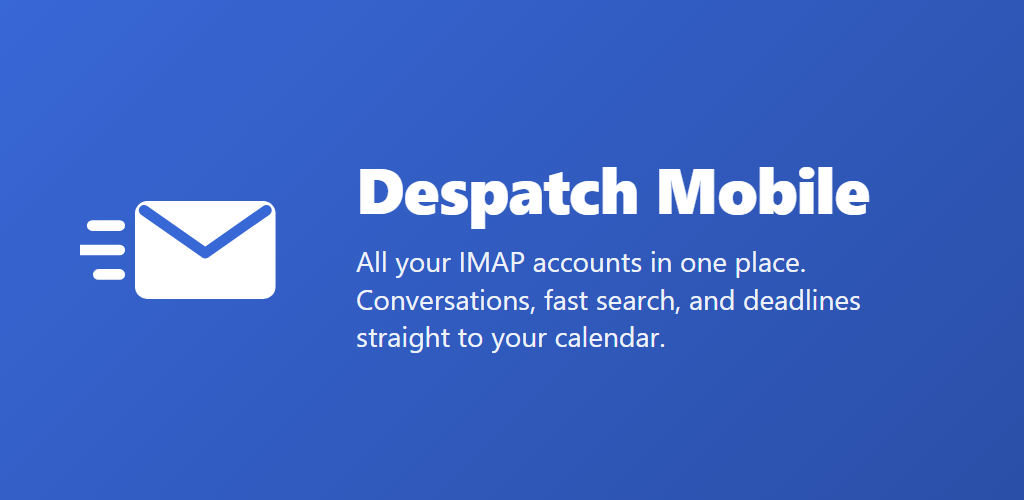
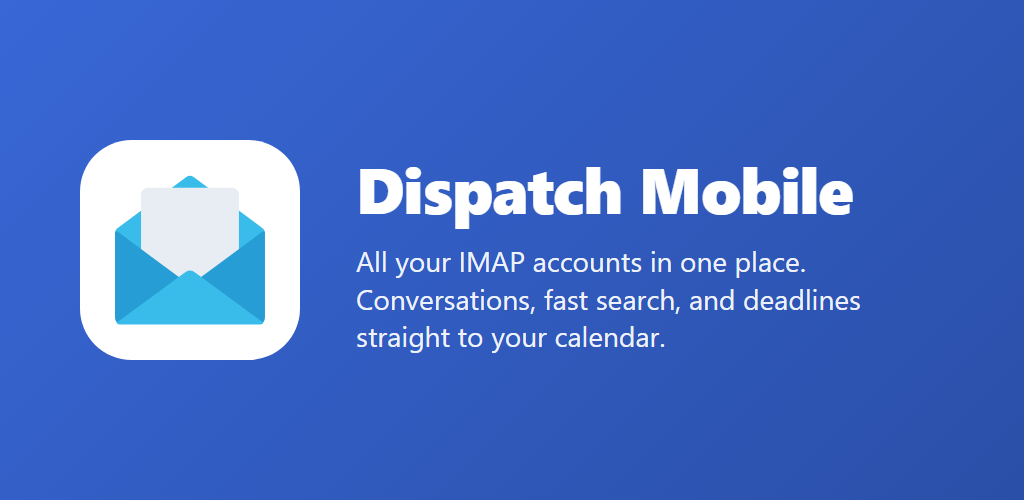
Rename the app to Dispatch, matching the desktop version
The launcher, window title and drawer say "Dispatch"; prose, the store
listing, privacy policy and app-password instructions say "Dispatch
Mobile". The feature graphic now uses the new envelope icon. Internal
identifiers (package ID, plugin, database names) are unchanged so existing
installs keep their accounts and mail.

Changed region(s): [[0.0625, 0.27, 0.3125, 0.72], [0.375, 0.33, 0.875, 0.48]]

diff --git a/src/js/mail/providers.js b/src/js/mail/providers.js
@@ -14,7 +14,7 @@ export const PROVIDERS = [
     smtp: { host: 'smtp.gmail.com', port: 465, security: 'tls' },
     appPassword: {
       url: 'https://myaccount.google.com/apppasswords',
-      steps: 'Turn on 2-Step Verification for your Google account, then create an app password named "Despatch Mobile".',
+      steps: 'Turn on 2-Step Verification for your Google account, then create an app password named "Dispatch Mobile".',
     },
     // Gmail saves sent mail itself; appending a copy would duplicate it.
     savesSentMail: true,
@@ -28,7 +28,7 @@ export const PROVIDERS = [
     smtp: { host: 'smtp.mail.me.com', port: 587, security: 'starttls' },
     appPassword: {
       url: 'https://account.apple.com/account/manage',
-      steps: 'Under Sign-In and Security, choose App-Specific Passwords and create one for "Despatch Mobile".',
+      steps: 'Under Sign-In and Security, choose App-Specific Passwords and create one for "Dispatch Mobile".',
     },
   },
   {
@@ -40,7 +40,7 @@ export const PROVIDERS = [
     smtp: { host: 'smtp.mail.yahoo.com', port: 465, security: 'tls' },
     appPassword: {
       url: 'https://login.yahoo.com/account/security',
-      steps: 'Open Account Security, choose Generate app password, and create one for "Despatch Mobile".',
+      steps: 'Open Account Security, choose Generate app password, and create one for "Dispatch Mobile".',
     },
   },
   {
@@ -52,7 +52,7 @@ export const PROVIDERS = [
     smtp: { host: 'smtp.aol.com', port: 465, security: 'tls' },
     appPassword: {
       url: 'https://login.aol.com/account/security',
-      steps: 'Open Account Security, choose Generate app password, and create one for "Despatch Mobile".',
+      steps: 'Open Account Security, choose Generate app password, and create one for "Dispatch Mobile".',
     },
   },
   {
@@ -77,7 +77,7 @@ export const PROVIDERS = [
     appPassword: {
       optional: true,
       url: 'https://accounts.zoho.com/home#security/app_password',
-      steps: 'If you use two-factor authentication, create an app password for "Despatch Mobile".',
+      steps: 'If you use two-factor authentication, create an app password for "Dispatch Mobile".',
     },
   },
   {

diff --git a/store/source/feature-graphic.html b/store/source/feature-graphic.html
@@ -1,6 +1,6 @@
 <!doctype html>
 <meta charset="utf-8" />
-<title>Despatch Mobile feature graphic</title>
+<title>Dispatch Mobile feature graphic</title>
 <style>
   html, body { margin: 0; width: 1024px; height: 500px; }
   body {
@@ -10,12 +10,17 @@
   h1 { margin: 0 0 12px; font-size: 64px; font-weight: 600; letter-spacing: -1px; }
   p { margin: 0; font-size: 28px; line-height: 1.35; opacity: 0.92; }
 </style>
-<svg width="220" height="220" viewBox="18 18 72 72" xmlns="http://www.w3.org/2000/svg">
-  <path fill="#fff" d="M40,38h38a4,4 0 0 1 4,4v24a4,4 0 0 1 -4,4h-38a4,4 0 0 1 -4,-4v-24a4,4 0 0 1 4,-4z" />
-  <path d="M39,41 L59,55 L79,41" fill="none" stroke="#3867d6" stroke-width="3.5" stroke-linecap="round" stroke-linejoin="round" />
-  <path d="M22,46h9 M18,54h13 M24,62h7" fill="none" stroke="#fff" stroke-width="3.5" stroke-linecap="round" />
+<!-- The launcher icon: the desktop app's envelope on a white tile (paths as in res/drawable/ic_despatch_foreground.xml). -->
+<svg width="220" height="220" viewBox="0 0 512 512" xmlns="http://www.w3.org/2000/svg">
+  <rect width="512" height="512" rx="120" fill="#fff" />
+  <g transform="translate(76 76) scale(0.703)">
+    <path fill="#39BCEA" d="M8,200 Q8,188 18,182 L244,14 Q256,6 268,14 L494,182 Q504,188 504,200 L504,480 L8,480 Z" />
+    <path fill="#E8EDF4" d="M116,50 L396,50 A22,22 0 0 1 418,72 L418,380 L94,380 L94,72 A22,22 0 0 1 116,50 Z" />
+    <path fill="#269DD4" d="M8,200 Q8,190 17,196 L256,373 L495,196 Q504,190 504,200 L504,480 Q504,500 484,500 L28,500 Q8,500 8,480 Z" />
+    <path fill="#39BCEA" d="M238,331 Q256,317 274,331 L497,495 Q503,500 490,503 L22,503 Q9,500 15,495 Z" />
+  </g>
 </svg>
 <div>
-  <h1>Despatch Mobile</h1>
+  <h1>Dispatch Mobile</h1>
   <p>All your IMAP accounts in one place.<br />Conversations, fast search, and deadlines<br />straight to your calendar.</p>
 </div>

diff --git a/android/app/src/main/java/com/despatch/mobile/notify/PushService.kt b/android/app/src/main/java/com/despatch/mobile/notify/PushService.kt
@@ -83,7 +83,7 @@ class PushService : Service() {
     private fun ongoingNotification() = NotificationCompat.Builder(this, ensureServiceChannel())
         .setSmallIcon(R.drawable.ic_stat_mail)
         .setContentTitle("Instant notifications are on")
-        .setContentText("Despatch Mobile is keeping a connection open for new mail.")
+        .setContentText("Dispatch Mobile is keeping a connection open for new mail.")
         .setOngoing(true)
         .setPriority(NotificationCompat.PRIORITY_MIN)
         .setContentIntent(
@@ -98,7 +98,7 @@ class PushService : Service() {
 
     private fun ensureServiceChannel(): String {
         val channel = NotificationChannel(SERVICE_CHANNEL, "Instant notifications", NotificationManager.IMPORTANCE_MIN).apply {
-            description = "Shown while Despatch Mobile keeps a connection open for instant notifications."
+            description = "Shown while Dispatch Mobile keeps a connection open for instant notifications."
         }
         getSystemService(NotificationManager::class.java).createNotificationChannel(channel)
         return SERVICE_CHANNEL

diff --git a/src/js/views/account-setup.js b/src/js/views/account-setup.js
@@ -31,7 +31,7 @@ function providerHint(provider) {
   if (provider.unsupportedUntil) {
     return html`<div class="banner banner--warning">
       ${icon('error')}
-      <p>${provider.name} accounts can’t be added yet. Support is planned for Despatch Mobile ${provider.unsupportedUntil}.</p>
+      <p>${provider.name} accounts can’t be added yet. Support is planned for Dispatch Mobile ${provider.unsupportedUntil}.</p>
     </div>`;
   }
   if (!provider.appPassword) return '';
@@ -120,7 +120,7 @@ export function createAccountSetupView({ element, onSubmit, onOpenUrl, onDone })
           <h1 class="app-bar__title">Add account</h1>
         </header>
         <form class="pane__body setup" novalidate>
-          <p class="setup__intro">Despatch Mobile works with any IMAP email account.</p>
+          <p class="setup__intro">Dispatch Mobile works with any IMAP email account.</p>
           <label class="field">
             <span>Email address</span>
             <input name="email" type="email" value="${state.email}" autocomplete="email" autocapitalize="off" required />

diff --git a/android/app/src/main/java/com/despatch/mobile/mail/AiaTrustManager.kt b/android/app/src/main/java/com/despatch/mobile/mail/AiaTrustManager.kt
@@ -139,7 +139,7 @@ class AiaTrustManager(
                 socket.connect(InetSocketAddress(uri.host, port), MailSessions.CONNECT_TIMEOUT_MS)
                 socket.soTimeout = MailSessions.CONNECT_TIMEOUT_MS
                 val path = uri.rawPath.ifEmpty { "/" } + (uri.rawQuery?.let { "?$it" } ?: "")
-                val request = "GET $path HTTP/1.0\r\nHost: ${uri.host}\r\nUser-Agent: Despatch Mobile\r\nConnection: close\r\n\r\n"
+                val request = "GET $path HTTP/1.0\r\nHost: ${uri.host}\r\nUser-Agent: Dispatch Mobile\r\nConnection: close\r\n\r\n"
                 socket.getOutputStream().write(request.toByteArray(Charsets.US_ASCII))
                 socket.getInputStream().use(::readLimited)
             } ?: return null

diff --git a/android/app/src/main/java/com/despatch/mobile/mail/MailErrors.kt b/android/app/src/main/java/com/despatch/mobile/mail/MailErrors.kt
@@ -66,7 +66,7 @@ object MailErrors {
             chain.any { it is AuthenticationFailedException } || looksLikeAuthFailure(text) -> when {
                 basicAuthDisabledHints.any(text::contains) -> MailException(
                     MailErrorCode.BASIC_AUTH_DISABLED,
-                    "This provider has password sign-in turned off. Support for it is planned for Despatch Mobile 2.0.",
+                    "This provider has password sign-in turned off. Support for it is planned for Dispatch Mobile 2.0.",
                     error,
                 )
                 appPasswordHints.any(text::contains) -> MailException(

diff --git a/src/js/calendar/ics.js b/src/js/calendar/ics.js
@@ -69,7 +69,7 @@ function alarmTrigger(minutes, allDay) {
 /**
  * @param {object} event  { uid, title, start, end, allDay, description, location, reminderMinutes }
  */
-export function buildIcs(event, { now = Date.now(), productId = '-//Despatch Mobile//EN' } = {}) {
+export function buildIcs(event, { now = Date.now(), productId = '-//Dispatch Mobile//EN' } = {}) {
   const lines = ['BEGIN:VCALENDAR', 'VERSION:2.0', `PRODID:${productId}`, 'CALSCALE:GREGORIAN', 'METHOD:PUBLISH', 'BEGIN:VEVENT'];
   lines.push(`UID:${event.uid}`);
   lines.push(`DTSTAMP:${utcStamp(now)}`);

diff --git a/android/app/src/main/java/com/despatch/mobile/mail/SmtpService.kt b/android/app/src/main/java/com/despatch/mobile/mail/SmtpService.kt
@@ -70,7 +70,7 @@ class SmtpService(private val passwords: PasswordSource) {
             message.sentDate = Date()
             outgoing.inReplyTo?.let { message.setHeader("In-Reply-To", it) }
             if (outgoing.references.isNotEmpty()) message.setHeader("References", outgoing.references.joinToString(" "))
-            message.setHeader("User-Agent", "Despatch Mobile")
+            message.setHeader("User-Agent", "Dispatch Mobile")
 
             val alternative = alternativeOf(outgoing)
             if (outgoing.attachments.isEmpty()) {

diff --git a/src/index.html b/src/index.html
@@ -8,7 +8,7 @@
       http-equiv="Content-Security-Policy"
       content="default-src 'self'; script-src 'self' 'wasm-unsafe-eval'; style-src 'self' 'unsafe-inline'; img-src 'self' data: blob: https: http:; connect-src 'self'; frame-src 'self' blob:; object-src 'none'; base-uri 'none'"
     />
-    <title>Despatch Mobile</title>
+    <title>Dispatch</title>
     <link rel="stylesheet" href="./css/tokens.css" />
     <link rel="stylesheet" href="./css/base.css" />
     <link rel="stylesheet" href="./css/layout.css" />

diff --git a/src/js/accounts/setup.js b/src/js/accounts/setup.js
@@ -75,7 +75,7 @@ export async function addAccount(
 }
 
 function unsupportedMessage(provider) {
-  return `${provider.name} has turned off password sign-in for other mail apps. Support is planned for Despatch Mobile ${provider.unsupportedUntil}.`;
+  return `${provider.name} has turned off password sign-in for other mail apps. Support is planned for Dispatch Mobile ${provider.unsupportedUntil}.`;
 }
 
 /** Turns a SetupError into text for the wizard. `showManual` means the server settings form should open. */

diff --git a/tests/setup.test.js b/tests/setup.test.js
@@ -79,7 +79,7 @@ describe('addAccount', () => {
 
     const error = await setupError(addAccount({ email: 'me@outlook.com', password: 'pw' }, deps));
     expect(error.code).toBe(MailErrorCode.BASIC_AUTH_DISABLED);
-    expect(describeSetupError(error).message).toMatch(/Despatch Mobile 2\.0/);
+    expect(describeSetupError(error).message).toMatch(/Dispatch Mobile 2\.0/);
   });
 
   it('rejects invalid and duplicate addresses', async () => {

diff --git a/src/js/views/drawer.js b/src/js/views/drawer.js
@@ -42,7 +42,7 @@ export function renderDrawer(element, { route, accounts, folders }) {
   render(
     element,
     html`
-      <h2 class="nav__heading nav__heading--app">Despatch Mobile</h2>
+      <h2 class="nav__heading nav__heading--app">Dispatch</h2>
       <ul class="nav__list">
         ${navItem(
           buildHash({ name: 'mailbox', folderId: UNIFIED_INBOX }),
